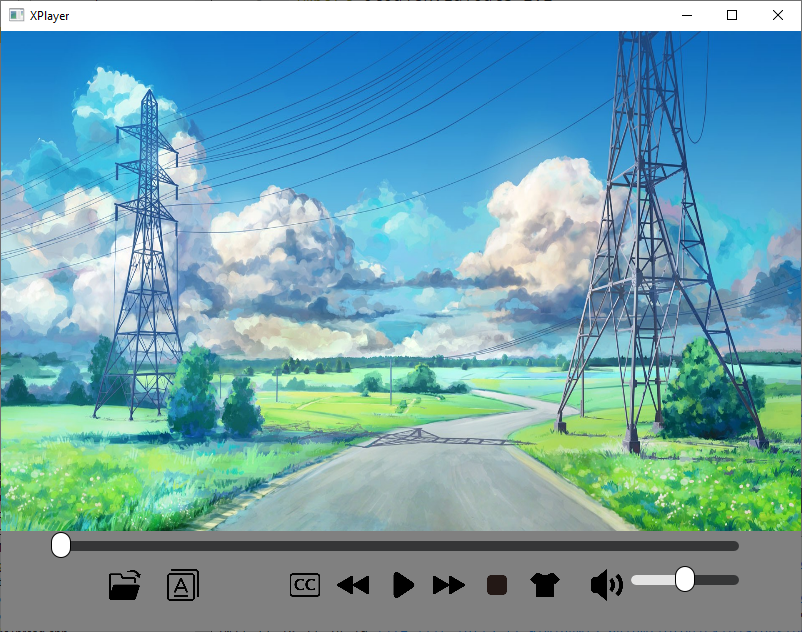
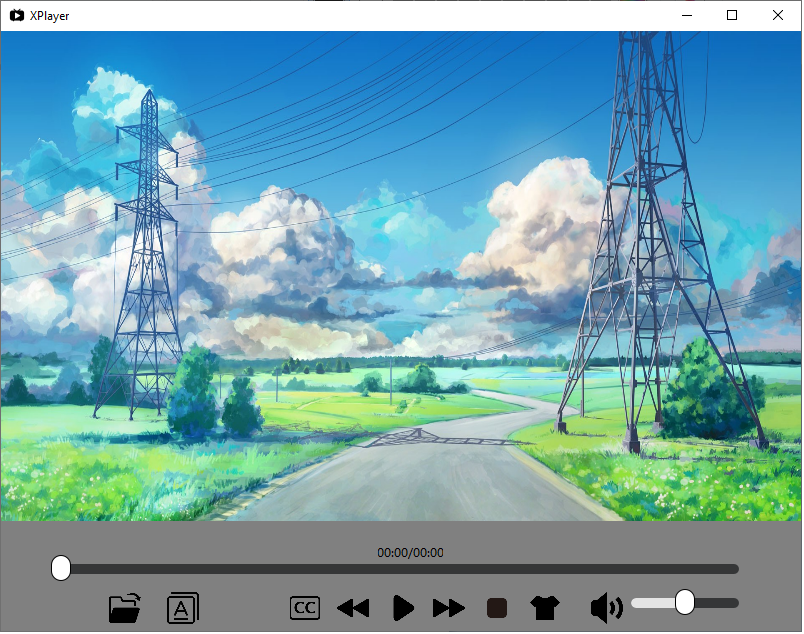
fix seek bug

Changed region(s): [[0.0, 0.7792, 1.0, 0.989], [0.0, 0.0, 0.0311, 0.0599], [0.0, 0.989, 0.0311, 1.0]]

diff --git a/resource/ui/qml/main.qml b/resource/ui/qml/main.qml
@@ -184,9 +184,11 @@ Window {
             anchors.right: parent.right
             anchors.top: parent.top
             anchors.leftMargin: root.width*0.02
-            anchors.rightMargin: root.width*0.47
+            anchors.rightMargin: root.width*0.02
             anchors.topMargin: 3
             text: ""
+            horizontalAlignment: Text.AlignHCenter
+            verticalAlignment: Text.AlignVCenter
         }
         Text {
             id: currentTime
@@ -242,7 +244,7 @@ Window {
                 border.color: "black"
             }
             onValueChanged: {
-                console.log("play percent is ", value)
+                //console.log("play percent is ", value)
 
                 var total_time_s = xplay.totalPts/1000;
                 total_hour = total_time_s/3600;

diff --git a/XVideoThread.cpp b/XVideoThread.cpp
@@ -2,6 +2,10 @@
 #include "XVideoThread.h"
 #include "XDecode.h"
 #include "Logger.h"
+extern "C"
+{
+    #include<libavcodec/avcodec.h>
+}
 
 using namespace std;
 
@@ -68,13 +72,12 @@ void XVideoThread::run()
         }
 
         //音视频同步
-        if (synpts >0 && synpts < m_pDecode->pts)
+        if (synpts >0 && synpts < m_pDecode->pts && !m_bIsFirstSeekFrame)
         {
-            //音频落后于视频
-            //LOG_DEBUG << "synpts is " << synpts ;
-            //LOG_DEBUG << "m_pDecode->pts is " << m_pDecode->pts ;
+            //the audio is behind the video
+            //if the m_bIsFirstSeekFrame is true, not sync with audio,because the video pts is not update now
             vmux.unlock();
-            msleep(1);
+            msleep(10);
             continue;
         }
 
@@ -95,6 +98,8 @@ void XVideoThread::run()
             {
                 break;
             }
+            //
+            m_bIsFirstSeekFrame = false;
             //显示视频
             if (call)
             {
@@ -106,43 +111,7 @@ void XVideoThread::run()
     }
 }
 
-//解码pts，如果接受到的解码数据pts > seekpts 返回true  并且显示画面
-bool XVideoThread::RepaintPts(AVPacket *pkt, long long seekpts)
+void XVideoThread::revisePts(long long pts)
 {
-    vmux.lock();
-    bool re = m_pDecode->Send(pkt);
-    if (!re)
-    {
-        LOG_DEBUG << "decode finish" ;
-        vmux.unlock();
-        return true;   //表示结束解码
-    }
-    AVFrame *frame = m_pDecode->Recv();
-    if (!frame)
-    {
-        vmux.unlock();
-        return false;
-    }
-
-
-    //LOG_DEBUG << "m_pDecode->pts =" << m_pDecode->pts ;
-    //LOG_DEBUG << "seekpts =" << seekpts ;
-//    //到达位置
-//    if (m_pDecode->pts >= seekpts)
-//    {
-//        if (call)
-//        {
-//            call->Repaint(frame);
-//        }
-//        LOG_DBG << "Repaint suc" << std::endl;
-//        vmux.unlock();
-//        return true;
-//    }
-
-
-    MYFreeFrame(&frame);
-    vmux.unlock();
-    return true;
+    m_pDecode->pts = pts;
 }
-
-

diff --git a/MainApp.cpp b/MainApp.cpp
@@ -11,7 +11,7 @@
 #include "Logger.h"
 
 #define APP_NAME                    "XPlayer"
-#define APP_ICON_PATH               ":/image/AppIcon.ico"
+#define APP_ICON_PATH               "qrc:/image/AppIcon.ico"
 #define APP_DISPLAYNAME             "XPlayer"
 #define UI_MAIN_PATH                "qrc:/qml/main.qml"
 #define UI_TRANSLATION_PATH         ":/translation/XPlayer_zh_CN.qm"
@@ -58,7 +58,12 @@ int MainApp::Main(int argc, char *argv[])
 bool MainApp::Initialize()
 {
     setApplicationName(QStringLiteral(APP_NAME));
-    setWindowIcon(QIcon(QStringLiteral(APP_ICON_PATH)));
+
+
+    //setWindowIcon(QIcon(QStringLiteral("D:\\self-learning\\XPlayer_proj\\XPlayer\\AppIcon.ico")));
+    setWindowIcon(QIcon(":/image/AppIcon.png"));
+
+
     setApplicationDisplayName(tr(APP_DISPLAYNAME));
     // Initialize Path
     InitializePath();
@@ -132,6 +137,7 @@ bool MainApp::InitializeUI(QQmlApplicationEngine *pQmlEngine)
 
     pQmlEngine->load(QUrl(QStringLiteral(UI_MAIN_PATH)));
 
+
 //    QList<QObject*> rootObjs(pQmlEngine->rootObjects());
 //    return !rootObjs.isEmpty();;
     return true;
@@ -170,7 +176,7 @@ void MainApp::changeLanuage(QString language)
 {
     if(language == MainApp::language())
         return;
-    LOG_DEBUG << language<<endl;
+    LOG_DEBUG << language;
     m_pTranslator.reset(new QTranslator);
     QSettings *settingIni = new QSettings("setting.ini",QSettings::IniFormat);
     settingIni->setValue("Config/Language",language);

diff --git a/XDemuxThread.cpp b/XDemuxThread.cpp
@@ -8,6 +8,7 @@ extern "C"
 #include "XDemux.h"
 #include "XVideoThread.h"
 #include "Logger.h"
+#include "XDecode.h"
 
 XDemuxThread::XDemuxThread()
 {
@@ -159,31 +160,21 @@ void XDemuxThread::Seek(double pos)
     {
         m_pDemux->Seek(pos);
     }
+    //flush the codec buffer
+    avcodec_flush_buffers(vt->m_pDecode->codec);
+    avcodec_flush_buffers(at->m_pDecode->codec);
+
+    //remove the packet in the queue
+    vt->clearPacket();
+    at->clearPacket();
+
+    vt->m_bIsFirstSeekFrame = true;
+    LOG_DEBUG << "first video seek frame do not sync" ;
 
     mux.unlock();
-    //实际要显示的位置pts
-    long long seekPts = pos * m_pDemux->m_totalMs;
 
-    while (!isExit)
-    {
-        AVPacket *pkt = m_pDemux->ReadVideo();
-        if (!pkt)
-        {
-            LOG_DEBUG << "No seek packet" ;
-            break;
-        }
 
-        //如果解码到seekPts
-        //LOG_DEBUG << "REPAINT" ;
-        //update the video pts to sync audio
-        if (vt->RepaintPts(pkt, seekPts))
-        {
-            this->pts = seekPts;
-            break;
-        }
-    }
-
-    //seek是非暂停状态
+    //if the current status is pause,set it to start
     if (!status)
     {
         SetPause(false);

diff --git a/XAudioThread.cpp b/XAudioThread.cpp
@@ -152,10 +152,7 @@ void XAudioThread::run()
         }
 
         AVPacket *pkt = Pop();
-        if(pkt == nullptr)
-        {
-            //LOG_DBG << "pkt is null" << std::endl;
-        }
+
         bool re = m_pDecode->Send(pkt);
         if (!re)
         {
@@ -164,20 +161,18 @@ void XAudioThread::run()
             msleep(1);
             continue;
         }
-        //一次send 多次recv
+
         while (!isExit)
         {
             AVFrame * frame = m_pDecode->Recv();
             if (!frame)
             {
-                //LOG_DBG << "break" <<std::endl;
                 break;
             }
 
             //减去缓冲中未播放的时间
             pts = m_pDecode->pts - m_pAudioPlay->GetNoPlayMs();
-            //LOG_DBG << "audio pts = " << pts << endl;
-            //重采样
+            //resample audio
             int size = m_pResample->Resample(frame, pcm);
             //LOG_DBG << "size = " << size << endl;
             //播放音频

diff --git a/XVideoThread.h b/XVideoThread.h
@@ -18,17 +18,18 @@ public:
     virtual ~XVideoThread();
 public:
     void SetPause(bool isPause);
-    virtual bool RepaintPts(AVPacket *pkt, long long seekpts);
     virtual bool Open(AVCodecParameters *para, IVideoCall *call, int width, int height);
     void run();
+    void revisePts(long long pts);
 public:
     bool isPause = false;
     //同步时间，由外部传入
     long long synpts = 0;
-
+    std::mutex vmux;
+    bool m_bIsFirstSeekFrame = false;
 protected:
     IVideoCall *call = 0;
-    std::mutex vmux;
+
 };
 
 #endif // XVIDEOTHEAD_H

diff --git a/XDecode.cpp b/XDecode.cpp
@@ -51,7 +51,7 @@ bool XDecode::Open(AVCodecParameters *param)
         return false;
     }
     Close();
-    //find the video decoder
+    //find the respect decoder
     AVCodec *vcodec = avcodec_find_decoder(param->codec_id);
     if(!vcodec)
     {
@@ -127,7 +127,6 @@ AVFrame* XDecode::Recv()
         av_frame_free(&frame);
         return NULL;
     }
-
     pts = frame->pts;
     return frame;
 }

diff --git a/XDecodeThread.h b/XDecodeThread.h
@@ -16,12 +16,13 @@ public:
     virtual void Clear();
     virtual void Close();
     virtual AVPacket *Pop();
+    void clearPacket();
 public:
     const int MAXLISTSIZE = 100;
     bool isExit = false;
     std::string m_name;
-protected:
     XDecode *m_pDecode = 0;
+protected:
     std::list<AVPacket *> m_packs;
     std::mutex mux;
 };

diff --git a/XDemux.cpp b/XDemux.cpp
@@ -195,6 +195,7 @@ bool XDemux::Seek(double pos)
     LOG_DEBUG << "duration is " << ic->streams[m_videoStreamIndex]->duration ;
 
     int re = av_seek_frame(ic, m_videoStreamIndex, seekPos, AVSEEK_FLAG_BACKWARD | AVSEEK_FLAG_FRAME);
+
     mux.unlock();
     if (re < 0)
     {

diff --git a/XDecode.h b/XDecode.h
@@ -26,8 +26,8 @@ public:
 public:
     bool isAudio = false;
     long long pts = 0;
-protected:
     AVCodecContext *codec = 0;
+protected:
     std::mutex mux;
 };
 #endif // XDECODE_H

diff --git a/XDecodeThread.cpp b/XDecodeThread.cpp
@@ -88,3 +88,9 @@ void XDecodeThread::Push(AVPacket *pkt)
     }
 }
 
+void XDecodeThread::clearPacket()
+{
+    mux.lock();
+    m_packs.clear();
+    mux.unlock();
+}

diff --git a/README.md b/README.md
@@ -34,6 +34,7 @@ Open the XPlayer.pro in Qt creator and then simple run it with the debug mode.
 If everything goes well, it will show you the main UI.
 
 ![player](doc/img/player.png)
+![playe2r](doc/img/player2.png)
 
 ## 3. Framework
 
